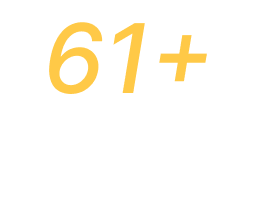
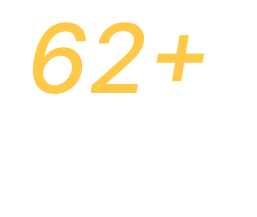
link changed, 62 years, main gallery fixed

diff --git a/src/pages/HomeNew.tsx b/src/pages/HomeNew.tsx
@@ -1,6 +1,7 @@
 import React, { useEffect } from "react";
 import AOS from "aos";
 import "aos/dist/aos.css";
+import { SwipeCarousel } from '../components/SwipeCarousel';
 import image1 from "../styles/images/shape/shape-1.png";
 import image2 from "../styles/images/shape/shape-2.png";
 import image3 from "../styles/images/shape/shape-3.png";
@@ -20,12 +21,11 @@ import image18 from "../styles/images/shape/shape-18.png";
 import image19 from "../styles/images/shape/shape-19.png";
 import image20 from "../styles/images/shape/shape-20.png";
 import image33 from "../styles/images/shape/shape-33.png";
-import banner1 from "../styles/images/banner/banner-img-1.jpg"
 import schoolPic1 from "../assets/school_pic_1.jpg"
 import principlePic from "../assets/sqp.jpg"
 import chooseUs2 from "../assets/What_We_Do_The_Best.jpg"
-import chooseUs3 from "../assets/choose_3.jpg"
 import icon2 from "../assets/sixty_years.png"
+import logo from "../assets/logo.svg";
 import icon4 from "../styles/images/icons/icon-4.png"
 import icon5 from "../styles/images/icons/icon-5.png"
 import icon6 from "../styles/images/icons/icon-6.png"
@@ -48,9 +48,6 @@ import glimpse1 from "../assets/glimpse_1.jpg"
 import glimpse2 from "../assets/glimpse_2.jpg"
 import glimpse3 from "../assets/glimpse_3.jpg"
 import glimpse4 from "../assets/glimpse_4.jpg"
-import glimpse5 from "../assets/glimpse_5.jpg"
-import glimpse6 from "../assets/glimpse_6.jpg"
-import glimpse7 from "../assets/glimpse_7.jpg"
 import { LuMoveUpRight } from "react-icons/lu";
 
 const Home: React.FC = () => {
@@ -362,7 +359,7 @@ const Home: React.FC = () => {
                     </figure>
                     <div className="btn-box">
                       <div className="shape"></div>
-                      <a href="https://res.cloudinary.com/dxlqy4p04/image/upload/v1737617888/principle_period_179bed67af.jpg" target="_blank">
+                      <a href="https://res.cloudinary.com/dxlqy4p04/image/upload/v1737617888/principle_period_179bed67af.jpg" target="_blank" rel="noreferrer">
                         <span>Principle Period</span>
                       </a>
                     </div>
@@ -965,7 +962,7 @@ const Home: React.FC = () => {
               <div className="curve-text">
                 <div className="icon-box">
                   <a href="/" className="lightbox-image" data-caption="">
-                    <img className="w-20" src={icon2} alt="" />
+                    <img className="w-20" src={logo} alt="" />
                   </a>
                 </div>
                 <div
@@ -1060,6 +1057,9 @@ const Home: React.FC = () => {
             </div>
           </div>
         </section>
+        <div>
+        <SwipeCarousel/>
+        </div>
         <div className="slide-text">
           <div
             className="pattern-layer"

diff --git a/src/pages/Faculty.tsx b/src/pages/Faculty.tsx
@@ -16,6 +16,7 @@ interface FacultyDataFormat {
     small: string;
     medium: string;
     large: string;
+    url: string;
   };
 }
 
@@ -26,7 +27,7 @@ const FacultyCard: React.FC<{ faculty: FacultyDataFormat }> = React.memo(({ facu
         <div className="flex justify-start items-start">
           <img
             alt={`${faculty.facultyName}`}
-            src={faculty.facultyPhoto.medium || "https://dummyimage.com/106x106"}
+            src={faculty.facultyPhoto.medium || faculty.facultyPhoto.url || "https://dummyimage.com/106x106"}
             className="w-16 h-16 rounded-full flex-shrink-0 object-cover object-center"
             loading="lazy"
           />
@@ -73,7 +74,8 @@ const Faculty: React.FC = () => {
         facultyPhoto: {
           small: item.attributes.facultyPhoto.data.attributes.formats.small?.url,
           medium: item.attributes.facultyPhoto.data.attributes.formats.medium?.url,
-          large: item.attributes.facultyPhoto.data.attributes.formats.large?.url
+          large: item.attributes.facultyPhoto.data.attributes.formats.large?.url,
+          url: item.attributes.facultyPhoto.data.attributes.url
         }
       }));
 

diff --git a/src/App.tsx b/src/App.tsx
@@ -1,4 +1,4 @@
-import React, { lazy, Suspense, useEffect } from "react";
+import React, { lazy, Suspense } from "react";
 import { BrowserRouter, Route, Routes } from "react-router-dom";
 import AnimatedNavbar from "./components/AnimatedNavbar";
 import Footer from "./components/Footer";
@@ -25,7 +25,6 @@ import "./styles/css/module-css/news.css";
 import "./styles/css/module-css/service-details.css";
 import { BsWhatsapp } from "react-icons/bs";
 
-const Home = lazy(() => import("./pages/Home"));
 const Home2 = lazy(() => import("./pages/HomeNew"));
 const Contact = lazy(() => import("./pages/Contact"));
 const Faculty = lazy(() => import("./pages/Faculty"));
@@ -67,7 +66,7 @@ function App() {
         </div>
         <Footer />
       </BrowserRouter>
-      <div className="fixed right-7 bottom-20 rounded-full bg-green-500 p-3 shadow-lg hover:bg-green-600 transition duration-300">
+      <div className="fixed right-7 bottom-32 rounded-full bg-green-500 p-3 shadow-lg hover:bg-green-600 transition duration-300">
       <a 
         href="https://wa.me/+919415679969" 
         target="_blank" 

diff --git a/src/components/AnimatedNavbar.tsx b/src/components/AnimatedNavbar.tsx
@@ -203,7 +203,7 @@ const AnimatedNavbar = () => {
             dropdownContent={AboutContent}
           />
           <AnimatedDropdown
-            link="https://schoolyam.com/enquiry/JBMJMZ"
+            link="/contact"
             text="Contact"
             dropdownContent={EmptyComponent}
           />
@@ -213,7 +213,7 @@ const AnimatedNavbar = () => {
           data-aos="fade-left"
           data-aos-delay="300"
         >
-          <div className="btn-box hidden lg:block light mr_30"><a href="https://wa.me/+919415679969" target="_blank" className="theme-btn"><span>Enquire Now</span></a></div>
+          <div className="btn-box hidden lg:block light mr_30"><a href="https://schoolyam.com/enquiry/JBMJMZ" target="_blank" className="theme-btn"><span>Enquire Now</span></a></div>
           <div className="block lg:hidden">
             <SidebarButton
               isOpen={isSidebarOpen}

diff --git a/src/components/Sidebar.tsx b/src/components/Sidebar.tsx
@@ -128,7 +128,7 @@ const Sidebar: React.FC<SidebarProps> = ({ isOpen, setIsOpen, setActive }) => {
                 </Dropdown>
               </li>
               <li>
-                <Link to="https://schoolyam.com/enquiry/JBMJMZ" className='flex bg-neutral-900 gap-2 items-center hover:bg-neutral-800 hover:text-neutral-100 p-2 rounded-lg transition-colors' onClick={toggleSidebar}>
+                <Link to="/contact" className='flex bg-neutral-900 gap-2 items-center hover:bg-neutral-800 hover:text-neutral-100 p-2 rounded-lg transition-colors' onClick={toggleSidebar}>
                   <LuPhone />Contact
                 </Link>
               </li>

diff --git a/src/components/Footer.tsx b/src/components/Footer.tsx
@@ -80,7 +80,7 @@ const Footer = () => {
                     <Link to="/faculty">Faculty</Link>
                   </li>
                   <li>
-                    <Link to="https://schoolyam.com/enquiry/JBMJMZ">Contact Us</Link>
+                    <Link to="/contact">Contact Us</Link>
                   </li>
                   <li>
                     <Link to="/gallery/images">Gallery</Link>

diff --git a/src/styles/scrollUpButton.css b/src/styles/scrollUpButton.css
@@ -1,7 +1,7 @@
 .progress-wrap {
     position: fixed;
-    bottom: 30px;
-    right: 30px;
+    bottom: 12rem;
+    right: 2rem;
     height: 44px;
     width: 44px;
     cursor: pointer;
